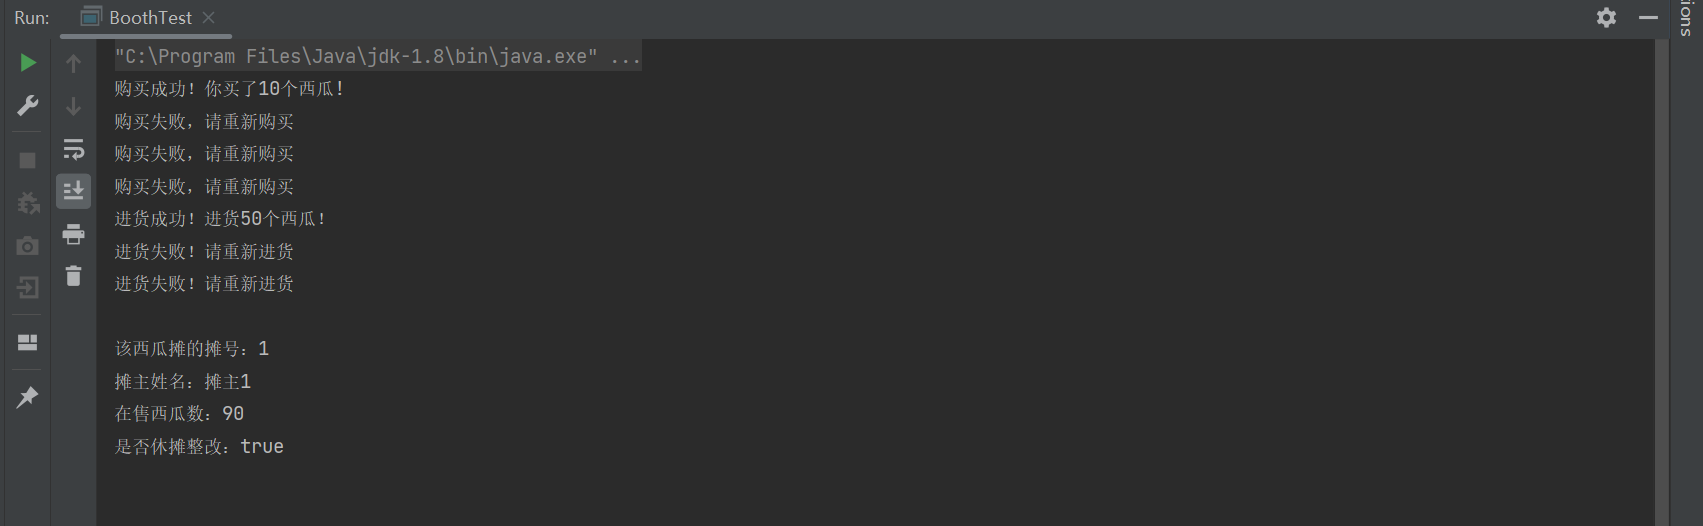
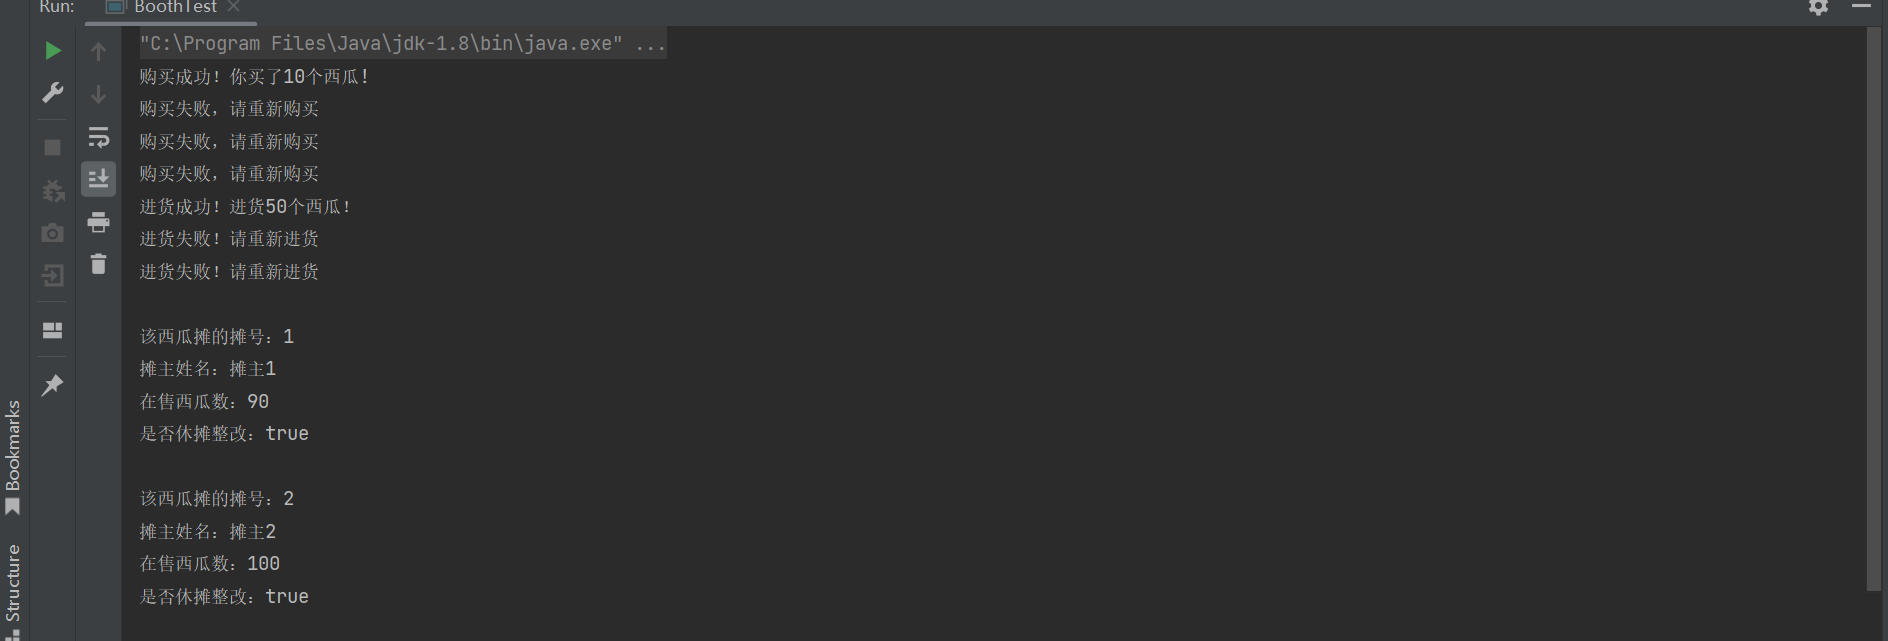
fix: work1

diff --git a/work1/DriOgon/Booth.java b/work1/DriOgon/Booth.java
@@ -12,14 +12,30 @@ public class Booth {
         this.isClosed=isClosed;
     }
     //上述变量对应的 get 和 set 方法
-    public long getId() {return id;}
-    public void setId(long id) {this.id = id;}
-    public String getName() {return name;}
-    public void setName(String name){this.name = name;}
-    public int getTotal() {return total;}
-    public void setTotal(int total) {this.total = total;}
-    public boolean isClosed() {return isClosed;}
-    public void setClosed(boolean closed) {isClosed = closed;}
+    public long getId() {
+        return id;
+    }
+    public void setId(long id) {
+        this.id = id;
+    }
+    public String getName() {
+        return name;
+    }
+    public void setName(String name){
+        this.name = name;
+    }
+    public int getTotal() {
+        return total;
+    }
+    public void setTotal(int total) {
+        this.total = total;
+    }
+    public boolean isClosed() {
+        return isClosed;
+    }
+    public void setClosed(boolean closed) {
+        isClosed = closed;
+    }
 
     //一个重写的 toString()方法来输出 该西瓜摊的所有信息（要有一定的格式
     @Override
@@ -54,8 +70,12 @@ public class Booth {
     // 输出已在休业整改的摊位信息（调用实例的 toString()方法）。
     public void closeBooths(Booth[] booths){
         for(Booth booth: booths){
-            if(!booth.isClosed){
+            if(!booth.isClosed) {
                 booth.setClosed(true);
+            }
+        }
+        for(Booth booth: booths){
+            if(booth.isClosed){
                 System.out.println(booth.toString());
             }
         }
